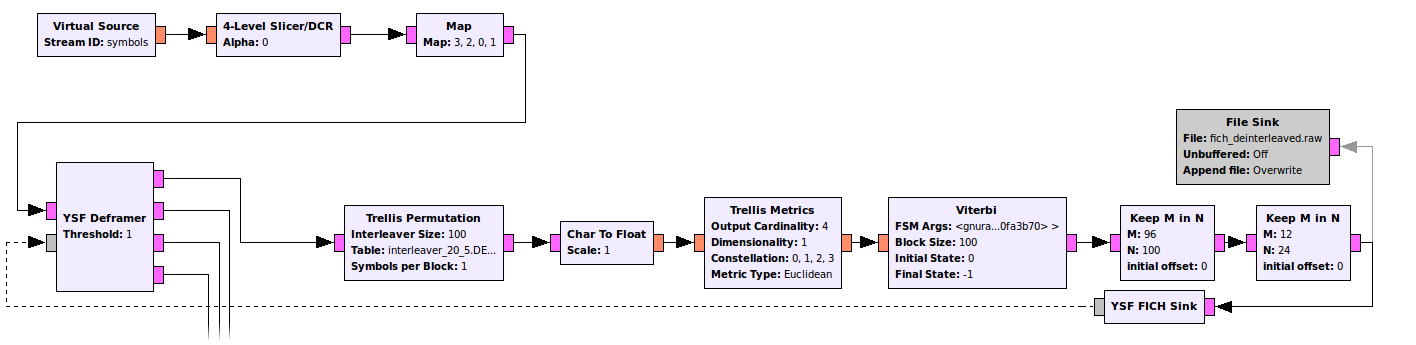
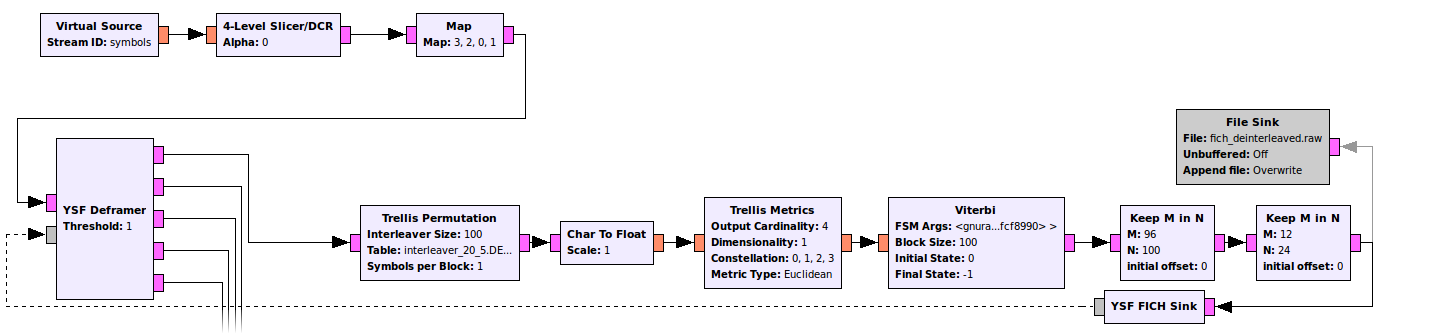
Upgrading documentation to the latest version, which also supports VW mode.

Changed region(s): [[0.0, 0.3003, 0.9633, 0.961], [0.0311, 0.03, 0.3729, 0.1802], [0.0, 0.3303, 0.3729, 0.3604]]

diff --git a/index.html b/index.html
@@ -64,7 +64,7 @@ University.</p>
 <p>This section briefly outlines the <code>ysf_rx.grc</code> flowgraph found in the
 <a href="https://github.com/HB9UF/gr-ysf/tree/master/examples"><code>examples/</code></a> 
 directory of the project. The flowgraph corresponds to commit
-<code>cda9f51</code>, although I will update this page as things progress. The
+<code>6830db0</code>, although I will update this page as things progress. The
 full flowgraph can be seen <a href="ysf_rx.png">here</a>, I will split it into
 several parts to make this discussion easier to follow.</p>
 
@@ -108,21 +108,45 @@ telling it what is contained in the payload. The deframer pulls apart the payloa
 according to those instructions and distributes it into the three payload
 streams.</p>
 
-<h2>Decoding</h2>
-<img class="center" alt="Bottom part of the flowgraph" src="decoding.png">
+<h2>Data Decoding</h2>
+<img class="center" alt="Data part of the flowgraph" src="data_decoding.png">
 <p>This part of the flowgraph takes care of turning the dibits into the packets
-expected by the sinks. This is an implementation of Figures 4-30, 4-31 (which
-only differs from the former by its parameters) and 4-32 of the Yaesu spec.
-It is remarkable that all of these blocks are standard GNU Radio blocks. I had
-to hack up my own scrambler as the one from GNU Radio exhibited a bug.</p>
+expected by the data sink. This is used to display call signs, messages and
+other information. Depending on type and mode, this kind of data can be
+transferred in different ways. The top path implements the decoding shown in
+Figure 4-30 of the specification, the bottom path implements the decoding
+shown in Figure 4-31 of the spec. The two decodings only differ by their
+respective parameters. In a nutshell, the dibits are de-interleaved and then,
+forward error correction is applied by the Viterbi algorithm following a 
+<a href="https://en.wikipedia.org/wiki/Convolutional_code">Trellis Convolitional
+Code</a>. This step turns the dibits into a stream of bits where bit-errors
+are hopefully corrected by the FEC. Lastly, a fixed sequence from a scrambler
+is XORed with the bit-stream before the data is displayed in the DCH Sink. The
+de-scrambling is done manually due to a bug in GNU Radio. It is important to
+note that the scrambler is part of the system in order to have a randomly
+distributed stream of data, since long sequences of the same bit would violate
+some theoretical assumptions of the techniques that make this system robust
+towards bit-errors. It is not there to conceal the meaning of the transmission.
+</p>
 
-<p>Only three custom blocks are necessary in this part of the flowgraph: The DCH
-Sink takes the DCH packets containing e.g. call sign information and dumps them
-to the console. The V/D 2 VCH Decoder undoes the weird bit triplication
-introduced in step 3 of Figure 4-32 of the Yaesu spec. The output of this block
-is an AMBE frame. Those AMBE frames enter the third custom block, mbelib
-Conversion Block. This block calls mbelib and retrieves the synthesized speech,
-which is normalized in amplizude by an AGC and sent to the speaker.</p>
+<h2>Voice Decoding</h2>
+<img class="center" alt="Voice part of the flowgraph, bottom" src="voice_decoding.png">
+
+<p>Similarly, this is an implementation of Figures 4-32 and 4-23 of the Yaesu
+spec, to decode DN voice and VW voice, respectively. The former is quite similar
+to the approach discussed in the previous section. The custom V/D2 VCH Decoder
+block undoes the weird bit triplication introduced in step 3 of the figure. 
+The output of this block is an AMBE frame. Those AMBE frames enter another custom 
+block, the mbelib Conversion Block. This block calls mbelib and retrieves the 
+synthesized speech, which is normalized in amplitude by an AGC and sent to the speaker.</p>
+
+<p>The bottom branch is considerably simpler: The dibits are converted into
+bits by unpacking, then de-interleaved according to a pattern that was not easy
+to figure out, as it is not documented by Yaesu. The standard AMBE scrambler is
+then (still inside the same block) applied to the frame, which is handed to the
+mbelib Conversion Block as before. IMBE is used here since the rate used in
+VW mode is supposed to be backwards compatible with an IMBE rate that is luckily
+supported by mbelib.</p>
 
 <h1>License, Code and Dependencies</h1>
 <p>The project is released on a <a href="https://github.com/HB9UF/gr-ysf/">github page</a> under the 
